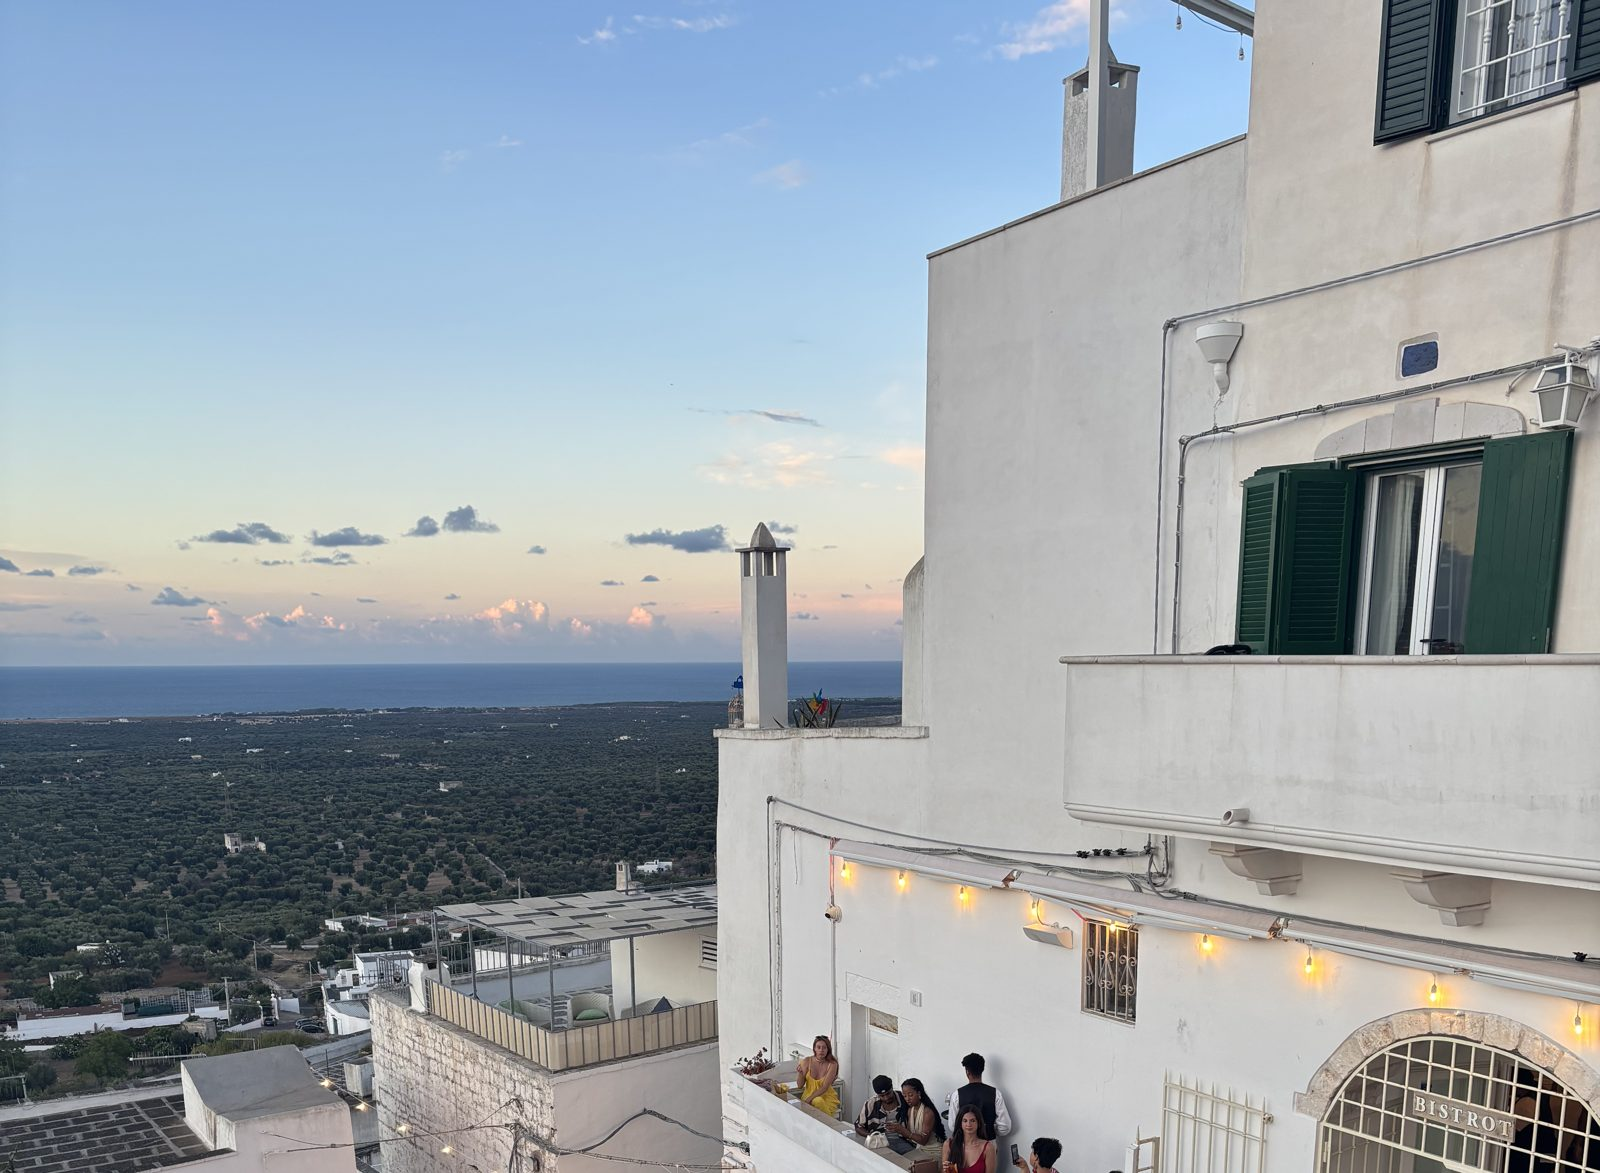
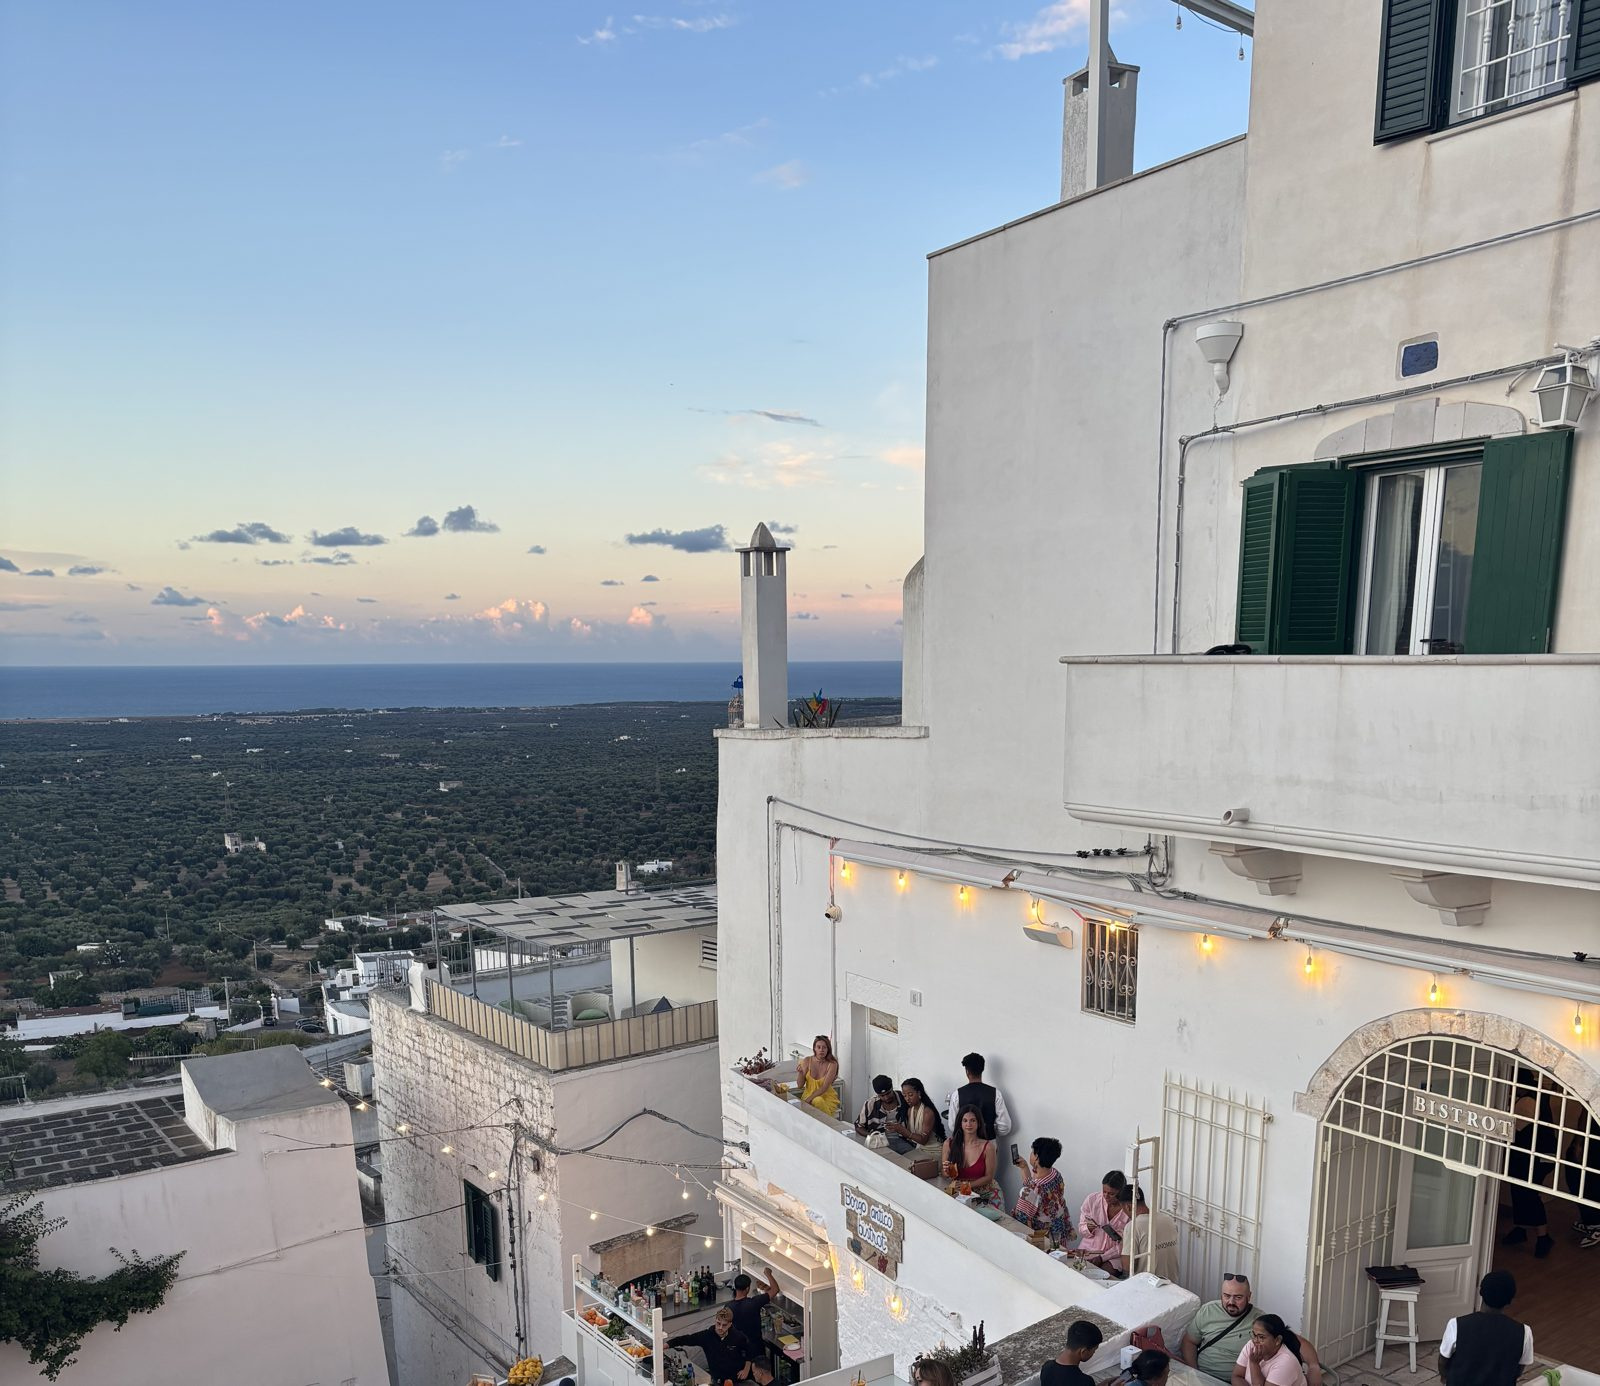
Add files via upload

diff --git a/index.html b/index.html
@@ -1107,7 +1107,7 @@ footer .sign{font-family:'Playfair Display',serif;font-style:italic;color:var(--
       <div class="tags"><span class="tag gull" data-no="Anbefalt" data-en="Highlight"></span><span class="tag gronn" data-no="Strand: kom tidlig" data-en="Beach: come early"></span><span class="tag gronn" data-no="Kveld: aperitivo &amp; solnedgang" data-en="Evening: aperitivo &amp; sunset"></span></div>
     </div>
     <div class="bilde-rad">
-      <figure class="foto stor" data-fil="bilder/polignano-klippene.jpg">
+      <figure class="foto" data-fil="bilder/polignano-klippene.jpg">
         <img src="bilder/polignano-klippene.jpg" alt="Polignano a Mare med klippene og Cala Monachile">
         <figcaption data-no="Cala Monaci og klippene" data-en="Cala Monaci and the cliffs"></figcaption>
       </figure>
@@ -1232,7 +1232,7 @@ footer .sign{font-family:'Playfair Display',serif;font-style:italic;color:var(--
         </article>
       </div>
       <div class="bilde-rad">
-        <figure class="foto stor" data-fil="bilder/ostuni-aperitivo-utsikt.jpg">
+        <figure class="foto" data-fil="bilder/ostuni-aperitivo-utsikt.jpg">
           <img src="bilder/ostuni-aperitivo-utsikt.jpg" alt="Aperitivo med utsikt i Ostuni">
           <figcaption data-no="Borgos terrasse med utsikt over Ostuni og havet" data-en="Borgo's terrace with views over Ostuni and the sea"></figcaption>
         </figure>
